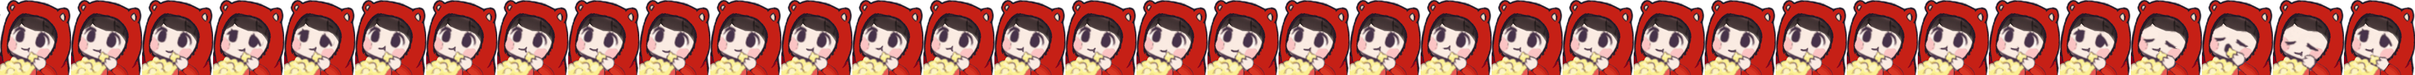
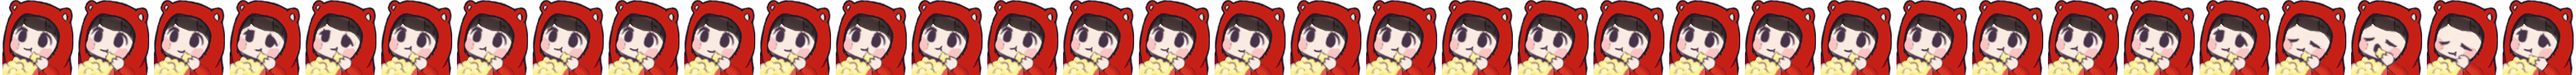
fix jitter in ComfyMoobers

Changed region(s): [[0.0, 0.0, 1.0, 1.0]]

diff --git a/assets/anim.scss b/assets/anim.scss
@@ -660,7 +660,7 @@ $spritesDir : '../../emotes/emoticons-animated/';
 @include sprite-animation(
     $file-name: ComfyMoobers,
     $frame-count: 34,
-    $sprite-width: 1020px,
+    $sprite-width: 1088px,
     $sprite-height: 32px,
     $animation-duration: 2550ms,
     $iteration-count: 2,
